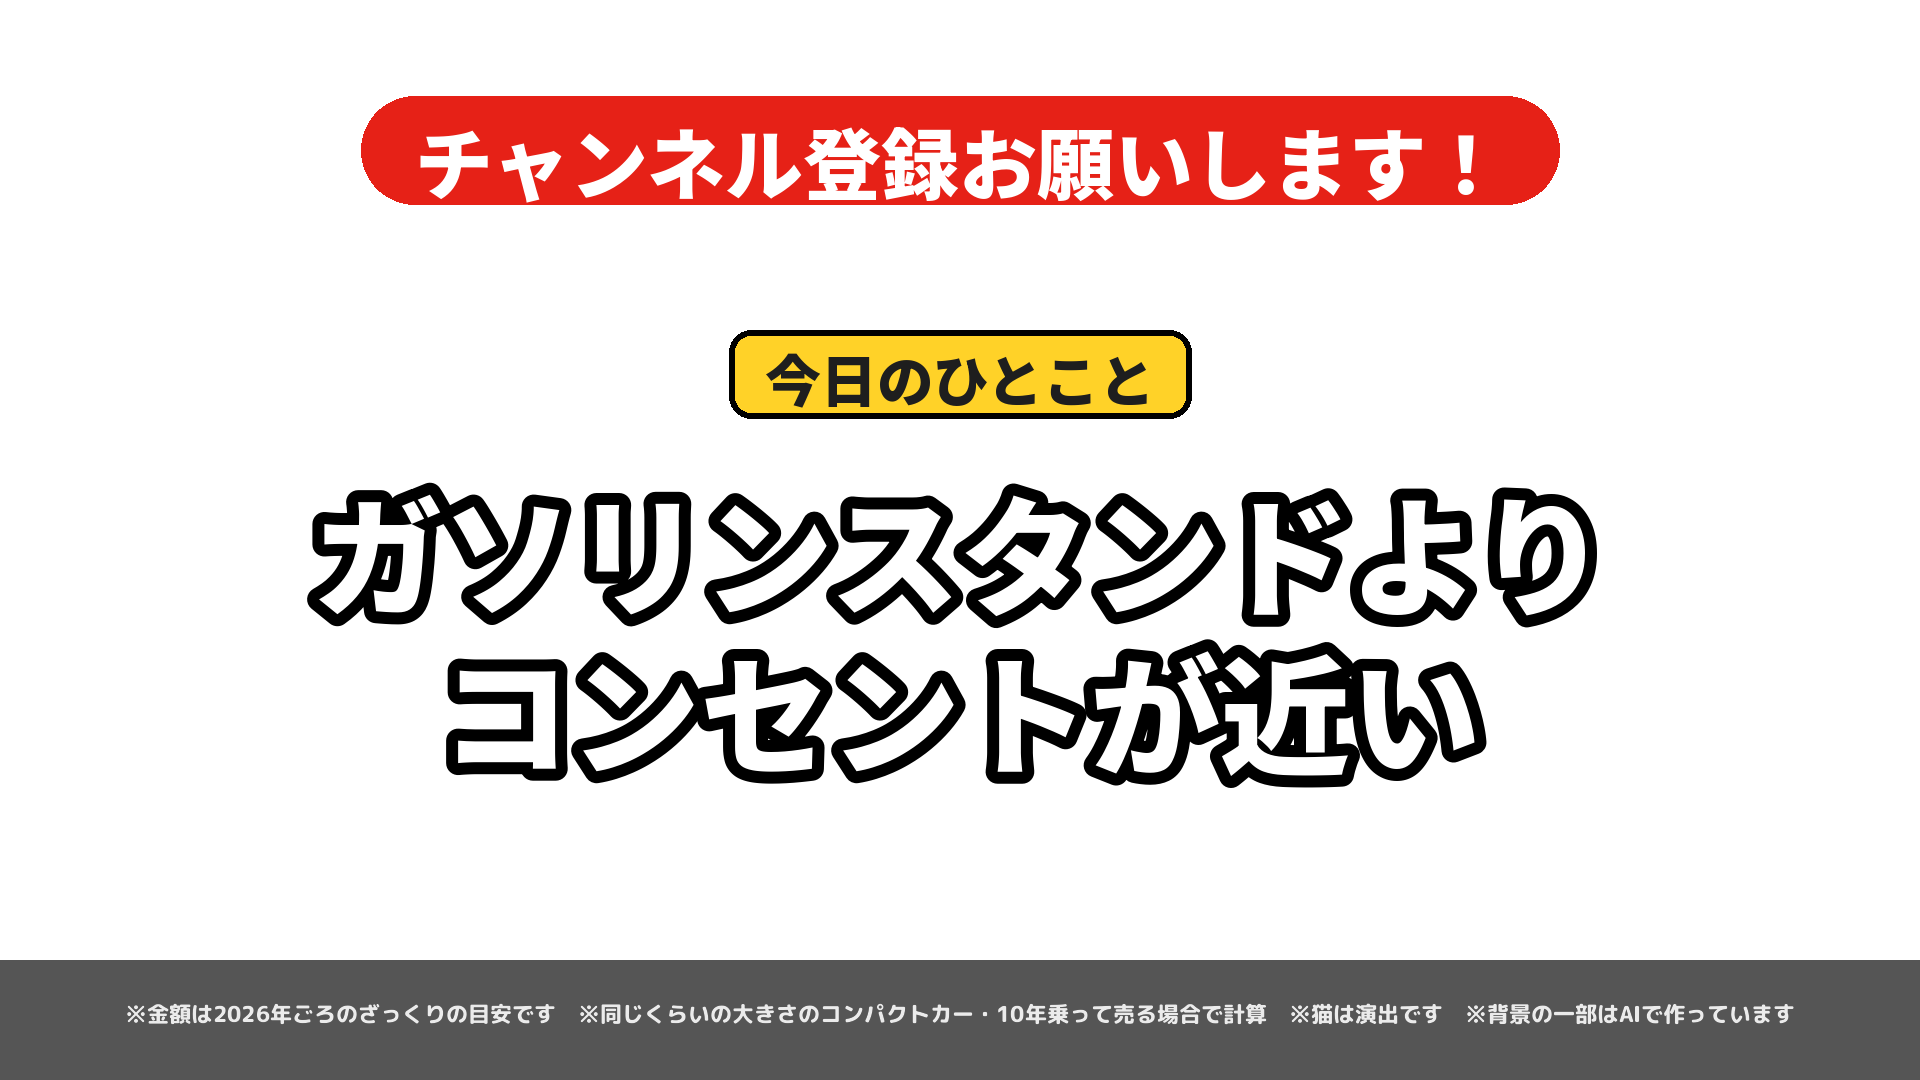
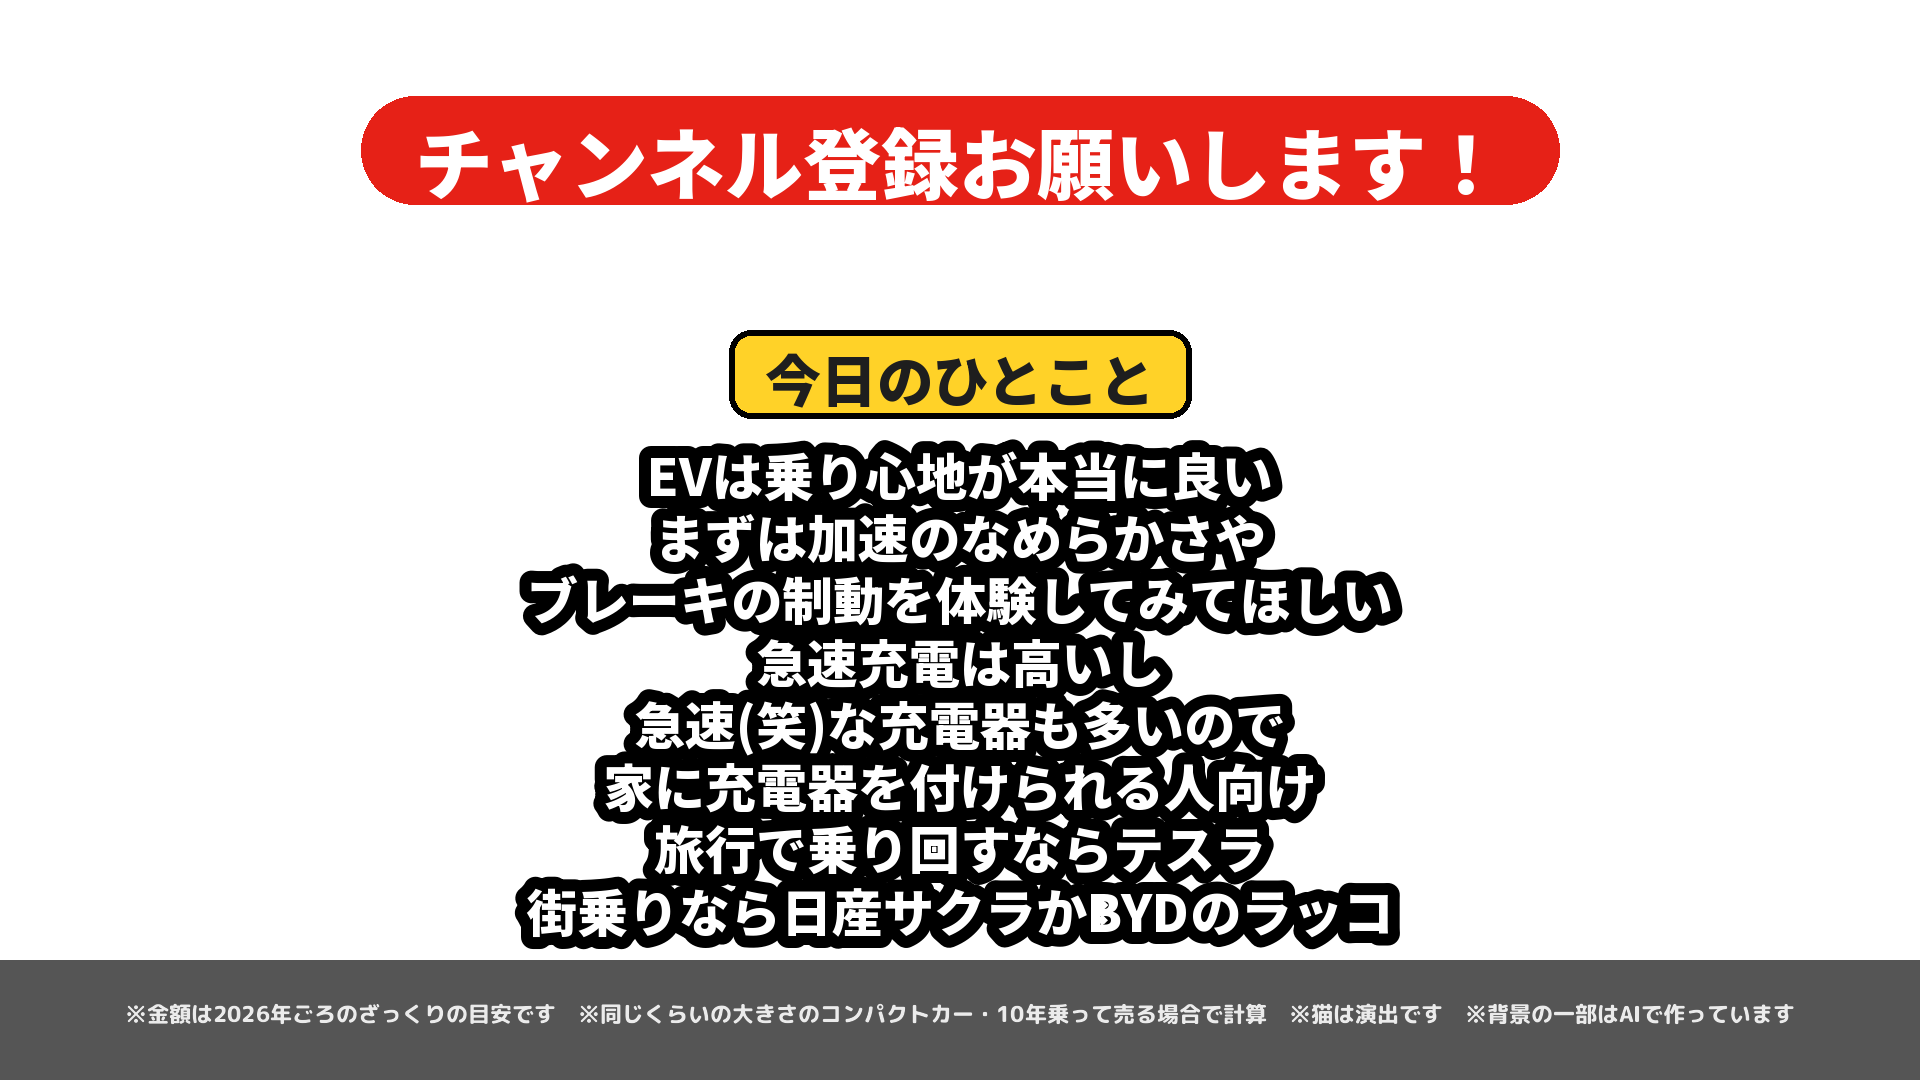
Video 42: 3-line bigger slot, long today message (9s ending)
Claude-Session: https://claude.ai/code/session_011g9CsrfFD5YswfNSvNDW39

Changed region(s): [[0.1562, 0.3972, 0.8438, 0.8861]]

diff --git a/catmeme/cuts_42_ev.py b/catmeme/cuts_42_ev.py
@@ -58,7 +58,7 @@ def cuts_all():
         # ---- つかみ ----
         nn("EVって\n電気で走るから\nめちゃくちゃ安いんでしょ？", DEALER, se="question_hatena_maou", bgm={"file": C.PURPLE, "gain": -4}),
         ss("電気代は\nたしかに\nガソリン代の半分", DEALER, se="pi"),
-        C.slot(MONEY, "でも10年でくらべると ガソリン車のほうが 約", 40, "万円安い"),
+        C.slot(MONEY, "でも10年でくらべると\nガソリン車のほうが\n約", 40, "万円安い", dur=3.6),   # 11/3：3行で大きく
         boom("ガソリン車の\nほうが安い!?", MONEY, se=[CONAN]),
         fx(nn("え……\nEVって\nお得じゃないの？", MONEY, se=POON), "mono"),
         C.title(STREET, "drive_driving_cat", "money_counting_orange_cat"),
@@ -113,7 +113,7 @@ def cuts_all():
         ss("補助金は毎年変わるので\n買う前に\n確認しよう", NIGHT, se="pc_warning"),
         C.ending(STREET)[0],
         C.end_today(STREET, (("drive_driving_cat", 220, 560), ("dance_three_kittens", 640, 520), ("money_counting_orange_cat", 1000, 560),
-                             ("drive_monkey_golf_cart", 1360, 560), ("dance_happy_banana_cat", 1720, 600))),
+                             ("drive_monkey_golf_cart", 1360, 560), ("dance_happy_banana_cat", 1720, 600)), dur=9.0),   # 長いひとことなので長めに
     ]
 
 

diff --git a/catmeme/render.py b/catmeme/render.py
@@ -780,7 +780,9 @@ class CutRenderer:
             v = val if t > 0.9 else int(np.random.default_rng(int(t * FPS)).integers(10, 99))
             key = f"{pre}{v}{post}"
             if key not in self.slot_cache:
-                self.slot_cache[key] = trim(to_np(P.big_text(key, (140, 60, 1780, 420), max_size=230, max_lines=1,
+                nl = key.count("\n") + 1   # 11/3：改行があれば複数行で大きく
+                self.slot_cache[key] = trim(to_np(P.big_text(key, (140, 40, 1780, 40 + 150 * nl if nl > 1 else 420),
+                                                              max_size=230 if nl == 1 else 150, max_lines=nl,
                                                               fill=P.RED_TEXT, stroke=P.WHITE)))
             over_t(out, self.slot_cache[key])
         if self.crack is not None and t > 0.05:   # 画面にヒビ（10/29）

diff --git a/catmeme/make_parts_35_38.py b/catmeme/make_parts_35_38.py
@@ -79,7 +79,7 @@ VIDEOS = {
         points=("今回のポイント", ["EVは 電気代が ガソリン代の約半分", "でも車の値段の差が大きい",
                                  "年8000kmなら ガソリン車が 約40万安い", "たくさん走る・家に太陽光がある人ほどEV"]),
         ending=["走る量と", "家で充電できるかで決めよう"],
-        end_today="ガソリンスタンドより\nコンセントが近い"),
+        end_today="EVは乗り心地が本当に良い\nまずは加速のなめらかさや\nブレーキの制動を体験してみてほしい\n急速充電は高いし\n急速(笑)な充電器も多いので\n家に充電器を付けられる人向け\n旅行で乗り回すならテスラ\n街乗りなら日産サクラかBYDのラッコ"),
 }
 
 

diff --git a/catmeme/compare_long.py b/catmeme/compare_long.py
@@ -68,11 +68,11 @@ def title(b, a1, a2):
                       {"a": a2, "x": 1640, "h": 400, "bottom": 1050, "float": True, "mute": True}])
 
 
-def end_today(b, cats):
+def end_today(b, cats, dur=6.0):
     """11/2 ユーザー指定（A案）：最後の画面＝上に「チャンネル登録お願いします！」・まん中に今日のひとこと・下に注意書き。
     冒頭の今日のひとこと画面と subscribe.png の代わりに使う。"""
     c = notice(b, cats)
-    c.update(layers_top=[pt("e11_end_today")], dur=6.0, notice=True, se={"f": "chirin", "gain": -2})
+    c.update(layers_top=[pt("e11_end_today")], dur=dur, notice=True, se={"f": "chirin", "gain": -2})
     return c
 
 

diff --git a/catmeme/notice_styles.py b/catmeme/notice_styles.py
@@ -101,8 +101,9 @@ def make_end(style, text, notes, top="チャンネル登録お願いします！
         if len(lines) == 1:
             _ctext(d, 490, text, f, (255, 255, 255), 12)
         else:   # 2行以上（3行は少し小さく・11/3）
-            sz = 130 if len(lines) == 2 else 104
-            y = 455 if len(lines) == 2 else 440
+            n = len(lines)
+            sz = 130 if n == 2 else 104 if n == 3 else max(44, int(500 / n / 1.22))   # 長い文は行を増やして小さく
+            y = 455 if n == 2 else 440 if n == 3 else 436
             for ln in lines:
                 f1, s1 = _fit(ln, W - 220, sz)
                 _ctext(d, y, ln, f1, (255, 255, 255), 12)
